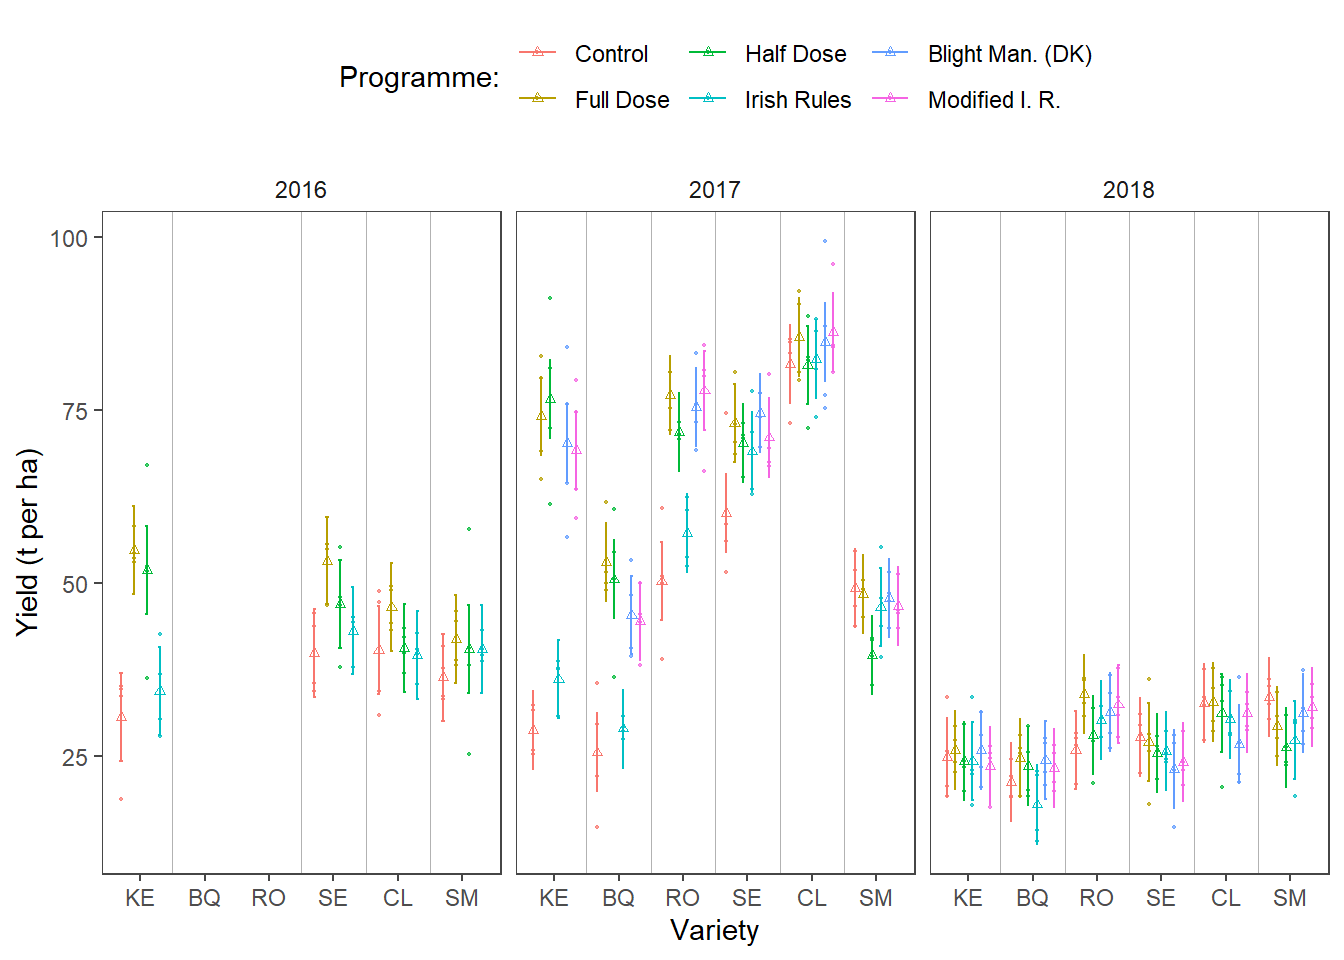
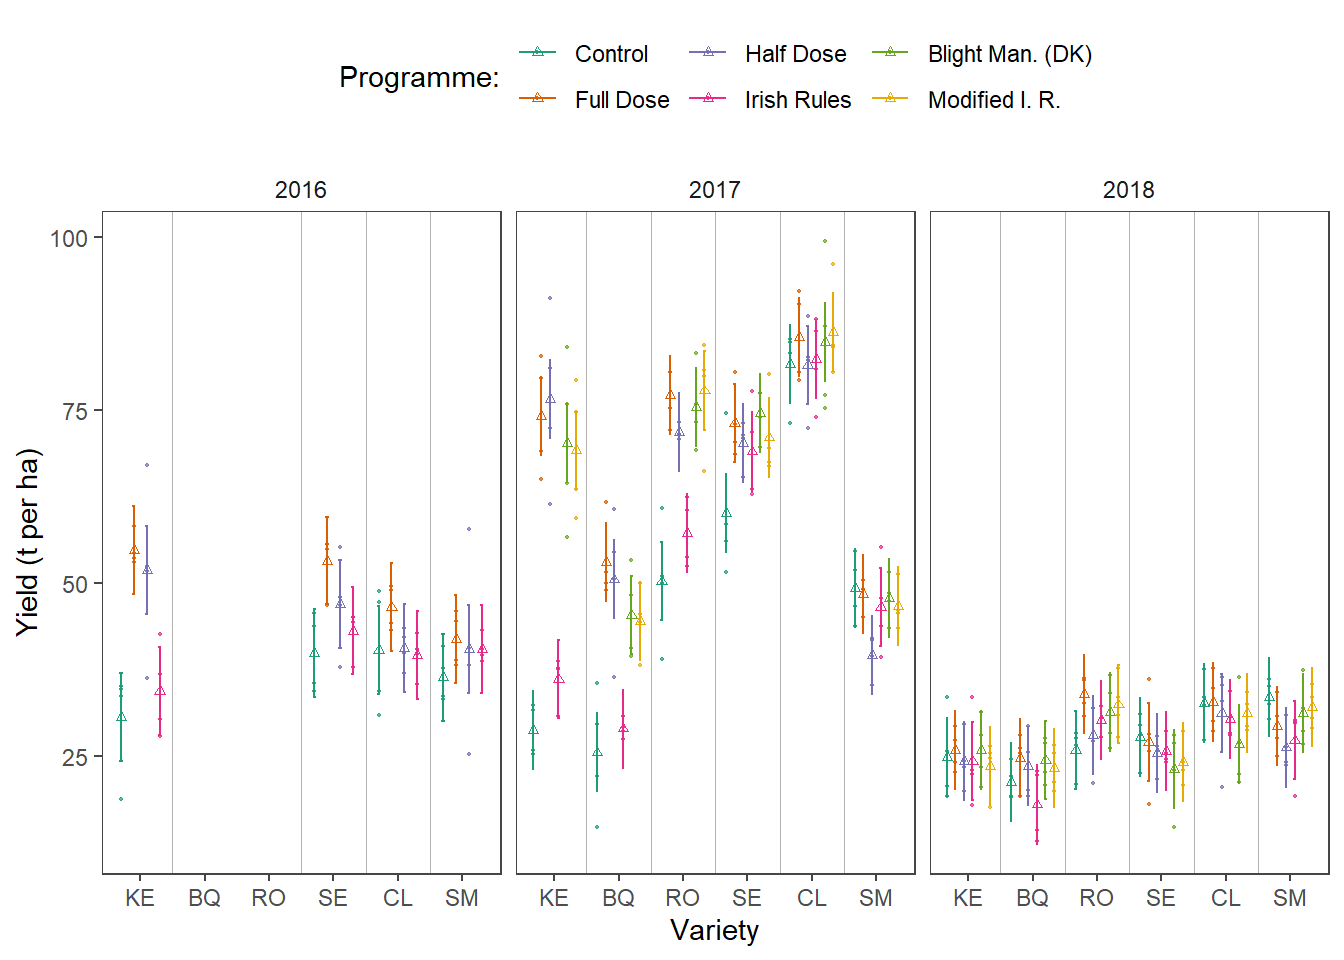
fixes

diff --git a/docs/yield.html b/docs/yield.html
@@ -387,7 +387,7 @@ div.tocify {
         <span class="icon-bar"></span>
         <span class="icon-bar"></span>
       </button>
-      <a class="navbar-brand" href="index.html">research-compendium-website</a>
+      <a class="navbar-brand" href="index.html">PLBipmIE</a>
     </div>
     <div id="navbar" class="navbar-collapse collapse">
       <ul class="nav navbar-nav">
@@ -399,31 +399,45 @@ div.tocify {
   </a>
 </li>
 <li>
+  <a href="dss.html">
+    <span class="fa fa fa fa fa fa-cog fa-spin fa-fw"></span>
+     
+    DSS
+  </a>
+</li>
+<li>
   <a href="disdata.html">
-    <span class="fa fa fa fa-file-code-o"></span>
+    <span class="fa fa fa fa fa fa-pagelines"></span>
      
     Disease
   </a>
 </li>
 <li>
   <a href="Trt.html">
-    <span class="fa fa fa fa-file-code-o"></span>
+    <span class="fa fa fa fa fa fa-plus-square"></span>
      
-    Trt
+    Sprays
   </a>
 </li>
 <li>
   <a href="yield.html">
-    <span class="fa fa fa fa-file-code-o"></span>
+    <span class="fa fa fa fa-archive"></span>
      
     Yield
   </a>
 </li>
 <li>
   <a href="pop.html">
-    <span class="fa fa fa fa-file-code-o"></span>
+    <span class="fa fa fa fa-code-fork"></span>
      
-    Population
+    Population Data
+  </a>
+</li>
+<li>
+  <a href="pop2.html">
+    <span class="fa fa fa fa-code-fork"></span>
+     
+    Population Analysis
   </a>
 </li>
       </ul>
@@ -444,13 +458,14 @@ div.tocify {
 
 
 
-<h1 class="title toc-ignore">Yield analysis</h1>
+<h1 class="title toc-ignore">Yield</h1>
 
 </div>
 
 
 <div id="yield-analysis" class="section level2">
 <h2>Yield analysis</h2>
+<p>Here we present the analysis of the impact of the fungicide programme, variety and year on the marketable yield.</p>
 </div>
 <div id="load-packages" class="section level2">
 <h2>Load packages</h2>
@@ -728,7 +743,7 @@ dodging &lt;-  .8
     alpha = .7,
     position = position_dodge(width = dodging)
   ) +
-  scale_fill_brewer(&quot;Programme:&quot;, palette = &quot;Dark2&quot;) +
+  scale_color_brewer(&quot;Programme:&quot;, palette = &quot;Dark2&quot;) +
   theme_article() +
   theme(legend.position = &quot;top&quot;) +
   geom_vline(aes(xintercept = line_positions),
@@ -758,7 +773,7 @@ rm(p_fin)</code></pre>
 ##  collate  English_United States.1252  
 ##  ctype    English_United States.1252  
 ##  tz       Europe/London               
-##  date     2019-10-22                  
+##  date     2019-10-25                  
 ## 
 ## - Packages --------------------------------------------------------------
 ##  ! package      * version    date       lib
@@ -1026,7 +1041,7 @@ rm(p_fin)</code></pre>
 
 
 
-Copyright 2018 Adam H Sparks
+Copyright 2018 Mladen Cucak
 
 
 </div>

diff --git a/docs/Trt.html b/docs/Trt.html
@@ -387,7 +387,7 @@ div.tocify {
         <span class="icon-bar"></span>
         <span class="icon-bar"></span>
       </button>
-      <a class="navbar-brand" href="index.html">research-compendium-website</a>
+      <a class="navbar-brand" href="index.html">PLBipmIE</a>
     </div>
     <div id="navbar" class="navbar-collapse collapse">
       <ul class="nav navbar-nav">
@@ -399,31 +399,45 @@ div.tocify {
   </a>
 </li>
 <li>
+  <a href="dss.html">
+    <span class="fa fa fa fa fa fa-cog fa-spin fa-fw"></span>
+     
+    DSS
+  </a>
+</li>
+<li>
   <a href="disdata.html">
-    <span class="fa fa fa fa-file-code-o"></span>
+    <span class="fa fa fa fa fa fa-pagelines"></span>
      
     Disease
   </a>
 </li>
 <li>
   <a href="Trt.html">
-    <span class="fa fa fa fa-file-code-o"></span>
+    <span class="fa fa fa fa fa fa-plus-square"></span>
      
-    Trt
+    Sprays
   </a>
 </li>
 <li>
   <a href="yield.html">
-    <span class="fa fa fa fa-file-code-o"></span>
+    <span class="fa fa fa fa-archive"></span>
      
     Yield
   </a>
 </li>
 <li>
   <a href="pop.html">
-    <span class="fa fa fa fa-file-code-o"></span>
+    <span class="fa fa fa fa-code-fork"></span>
      
-    Population
+    Population Data
+  </a>
+</li>
+<li>
+  <a href="pop2.html">
+    <span class="fa fa fa fa-code-fork"></span>
+     
+    Population Analysis
   </a>
 </li>
       </ul>
@@ -444,14 +458,14 @@ div.tocify {
 
 
 
-<h1 class="title toc-ignore">Code</h1>
+<h1 class="title toc-ignore">Sprays</h1>
 
 </div>
 
 
 <div id="treatments-analysis" class="section level2">
 <h2>Treatments analysis</h2>
-<p>Impact of the dose reduction on the potato late blight development on potato varieties differing in their resistance level.</p>
+<p>Number of treatments and proportion of the total dose used in fungicide trials.</p>
 </div>
 <div id="load-packages" class="section level2">
 <h2>Load packages</h2>
@@ -680,7 +694,7 @@ p &lt;- egg::ggarrange(p1, p2, ncol = 2, widths = c(4,1))</code></pre>
 ##  collate  English_United States.1252  
 ##  ctype    English_United States.1252  
 ##  tz       Europe/London               
-##  date     2019-10-22                  
+##  date     2019-10-25                  
 ## 
 ## - Packages --------------------------------------------------------------
 ##  ! package      * version  date       lib source                          
@@ -810,7 +824,7 @@ p &lt;- egg::ggarrange(p1, p2, ncol = 2, widths = c(4,1))</code></pre>
 
 
 
-Copyright 2018 Adam H Sparks
+Copyright 2018 Mladen Cucak
 
 
 </div>

diff --git a/docs/pop.html b/docs/pop.html
@@ -387,7 +387,7 @@ div.tocify {
         <span class="icon-bar"></span>
         <span class="icon-bar"></span>
       </button>
-      <a class="navbar-brand" href="index.html">PLBipmIE</a>
+      <a class="navbar-brand" href="index.html">PLBFieldEval</a>
     </div>
     <div id="navbar" class="navbar-collapse collapse">
       <ul class="nav navbar-nav">
@@ -402,7 +402,7 @@ div.tocify {
   <a href="dss.html">
     <span class="fa fa fa fa fa fa-cog fa-spin fa-fw"></span>
      
-    dss
+    DSS
   </a>
 </li>
 <li>
@@ -416,7 +416,7 @@ div.tocify {
   <a href="Trt.html">
     <span class="fa fa fa fa fa fa-plus-square"></span>
      
-    Trt
+    Sprays
   </a>
 </li>
 <li>
@@ -428,9 +428,16 @@ div.tocify {
 </li>
 <li>
   <a href="pop.html">
-    <span class="fa fa fa fa-share-alt"></span>
+    <span class="fa fa fa fa-code-fork"></span>
      
-    Population
+    Population Data
+  </a>
+</li>
+<li>
+  <a href="pop2.html">
+    <span class="fa fa fa fa-code-fork"></span>
+     
+    Population Analysis
   </a>
 </li>
       </ul>
@@ -458,6 +465,7 @@ div.tocify {
 
 <div id="popoulation-analysis" class="section level2">
 <h2>Popoulation analysis</h2>
+<p>Presentation of the sampling and a descriptive analysis of the samples collected.</p>
 </div>
 <div id="load-packages" class="section level2">
 <h2>Load packages</h2>
@@ -776,7 +784,6 @@ filter(dis_obs, treatment == &quot;Control&quot;) %&gt;%
   labs(colour = &quot;Variety:&quot;)+
   facet_wrap(~year, ncol = 1)+
   theme_article()+
-  
   theme(legend.position = &quot;bottom&quot;)+
   guides(fill=guide_legend(nrow=2,byrow=TRUE),
          colour = guide_legend(title.position = &quot;top&quot;))

diff --git a/docs/disdata.html b/docs/disdata.html
@@ -402,7 +402,7 @@ div.tocify {
   <a href="dss.html">
     <span class="fa fa fa fa fa fa-cog fa-spin fa-fw"></span>
      
-    dss
+    DSS
   </a>
 </li>
 <li>
@@ -416,7 +416,7 @@ div.tocify {
   <a href="Trt.html">
     <span class="fa fa fa fa fa fa-plus-square"></span>
      
-    Trt
+    Sprays
   </a>
 </li>
 <li>
@@ -458,7 +458,7 @@ div.tocify {
 
 
 
-<h1 class="title toc-ignore">Data</h1>
+<h1 class="title toc-ignore">disdata</h1>
 
 </div>
 
